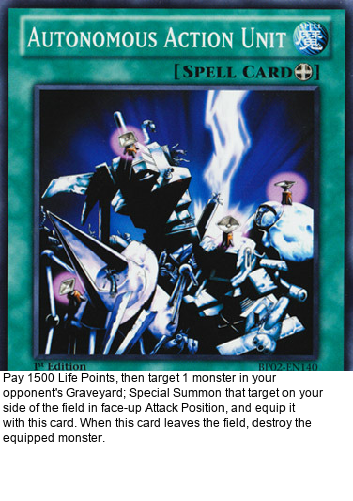
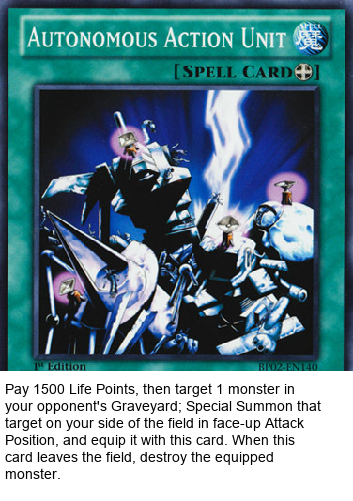
large font on spells

Changed region(s): [[0.0, 0.7485, 0.9348, 0.9581]]

diff --git a/pillow/card.py b/pillow/card.py
@@ -2,12 +2,17 @@ from PIL import Image, ImageDraw, ImageFont
 import os, json, textwrap
 
 fnt = ImageFont.truetype('/Library/Fonts/Arial.ttf', 12)
+fnt_large = ImageFont.truetype('/Library/Fonts/Arial.ttf', 14)
 fnt_black = ImageFont.truetype('/Library/Fonts/Arial Black.ttf', 14)
 char_limit = 60
+char_limit_large = 50
 ascent, descent = fnt.getmetrics()
 line_height = ascent + descent + 1
 ascent_black, descent_black = fnt_black.getmetrics()
 line_height_black = ascent_black + descent_black + 1
+ascent_large, descent_large = fnt_large.getmetrics()
+line_height_large = ascent_large + descent_large + 1
+
 
 def add_text(data, image, output_name):
   text = data['text']
@@ -17,9 +22,12 @@ def add_text(data, image, output_name):
   if card_type == 'Monster' and 'Synchro' in data['types'].split(' / '):
     text_content = " ".join(text_lines[slice(1, len(text_lines))])
     lines = textwrap.wrap(text_lines[0], char_limit) + textwrap.wrap(text_content, char_limit)
-  else:
+  elif card_type == 'Monster':
     text_content = " ".join(text_lines)
     lines = textwrap.wrap(text_content, char_limit)
+  else:
+    text_content = " ".join(text_lines)
+    lines = textwrap.wrap(text_content, char_limit_large)
 
   width, height = image.size
   text_box = "\n".join(lines)
@@ -33,9 +41,9 @@ def add_text(data, image, output_name):
     draw.text((3, height - box_height + line_height_black), text_box, font=fnt, fill=(0, 0, 0))
     draw.text((3, height - line_height_black), data['stats'], font=fnt_black, fill=(0, 0, 0))
   else:
-    box_height = max([(len(lines))*line_height, 130])
+    box_height = max([(len(lines))*line_height, 120]) + 10
     draw.rectangle([(0, height - box_height), (width, height)], (255, 255, 255))
-    draw.text((3, height - box_height), text_box, font=fnt, fill=(0, 0, 0))
+    draw.text((5, height - box_height + 10), text_box, font=fnt_large, fill=(0, 0, 0))
   image.save(output_name)
 
 def save_image(name, data, src_folder, output_folder):
